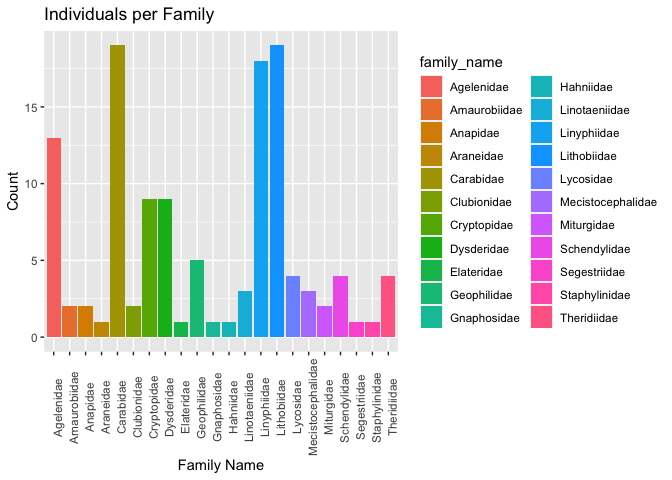
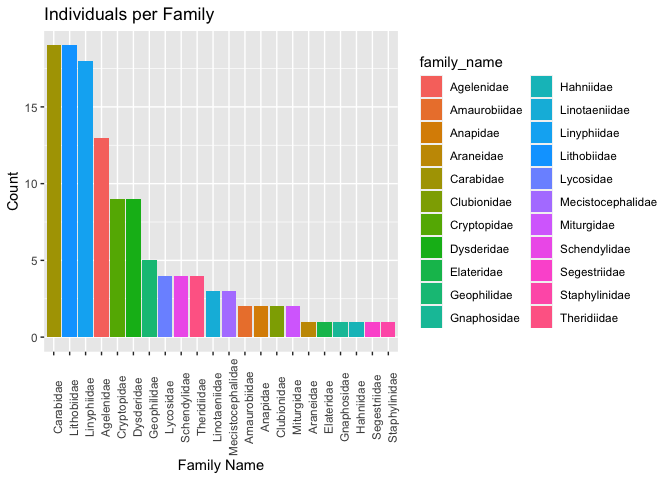
fix

Changed region(s): [[0.0625, 0.0938, 0.5938, 0.7188], [0.0625, 0.75, 0.5938, 0.9375]]

diff --git a/data_inspection.md b/data_inspection.md
@@ -132,7 +132,7 @@ words, how many “Therididae”? How many “Anapidae”?
 I’ll use ggplot to do this.
 
 ``` r
-ggplot(bdj, aes(x = family_name, fill=family_name)) +
+ggplot(bdj, aes(x=reorder(family_name, family_name, function(x)-length(x)),fill=family_name)) +
   geom_bar() +
   labs(title="Individuals per Family", 
          x="Family Name", y = "Count") +
@@ -144,10 +144,10 @@ ggplot(bdj, aes(x = family_name, fill=family_name)) +
 That looks so cool and I want to do another one. This one will be genus.
 
 ``` r
-ggplot(bdj, aes(x = genus_name, fill=genus_name)) +
+ggplot(bdj, aes(x=reorder(genus_name, genus_name, function(x)-length(x)),fill=genus_name)) +
   geom_bar() +
   labs(title="Individuals per Genus", 
-         x="Genus Name", y = "Count") +
+         x="Family Name", y = "Count") +
   theme(axis.text.x = element_text(angle = 90)) +
   theme(legend.position="none")
 ```
